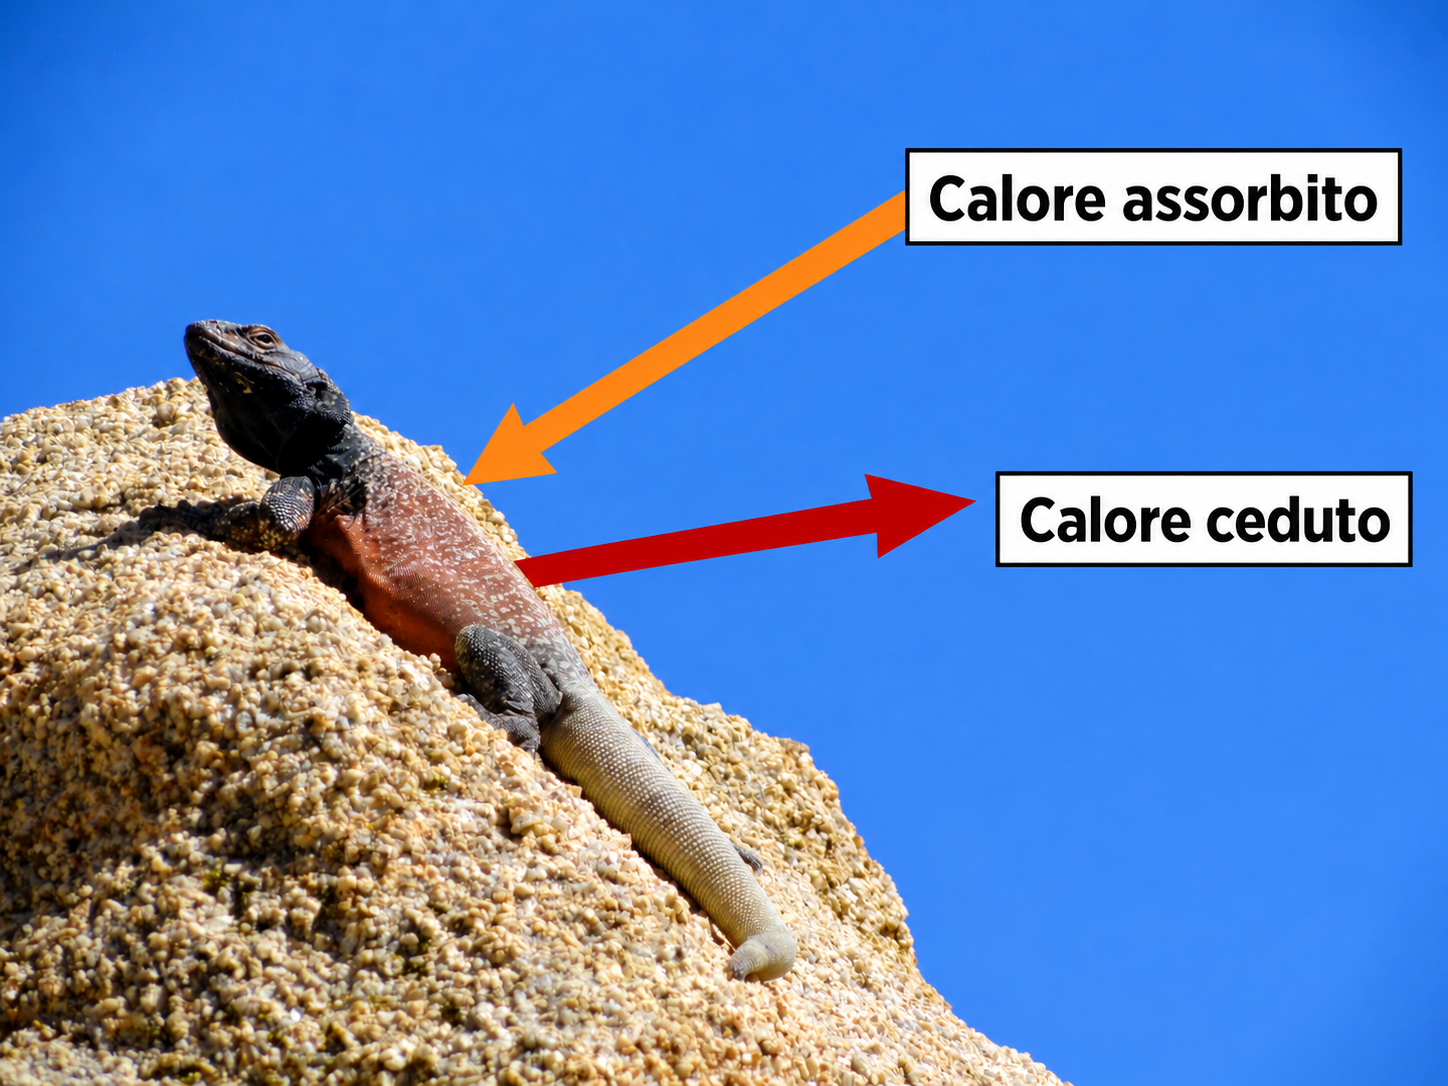
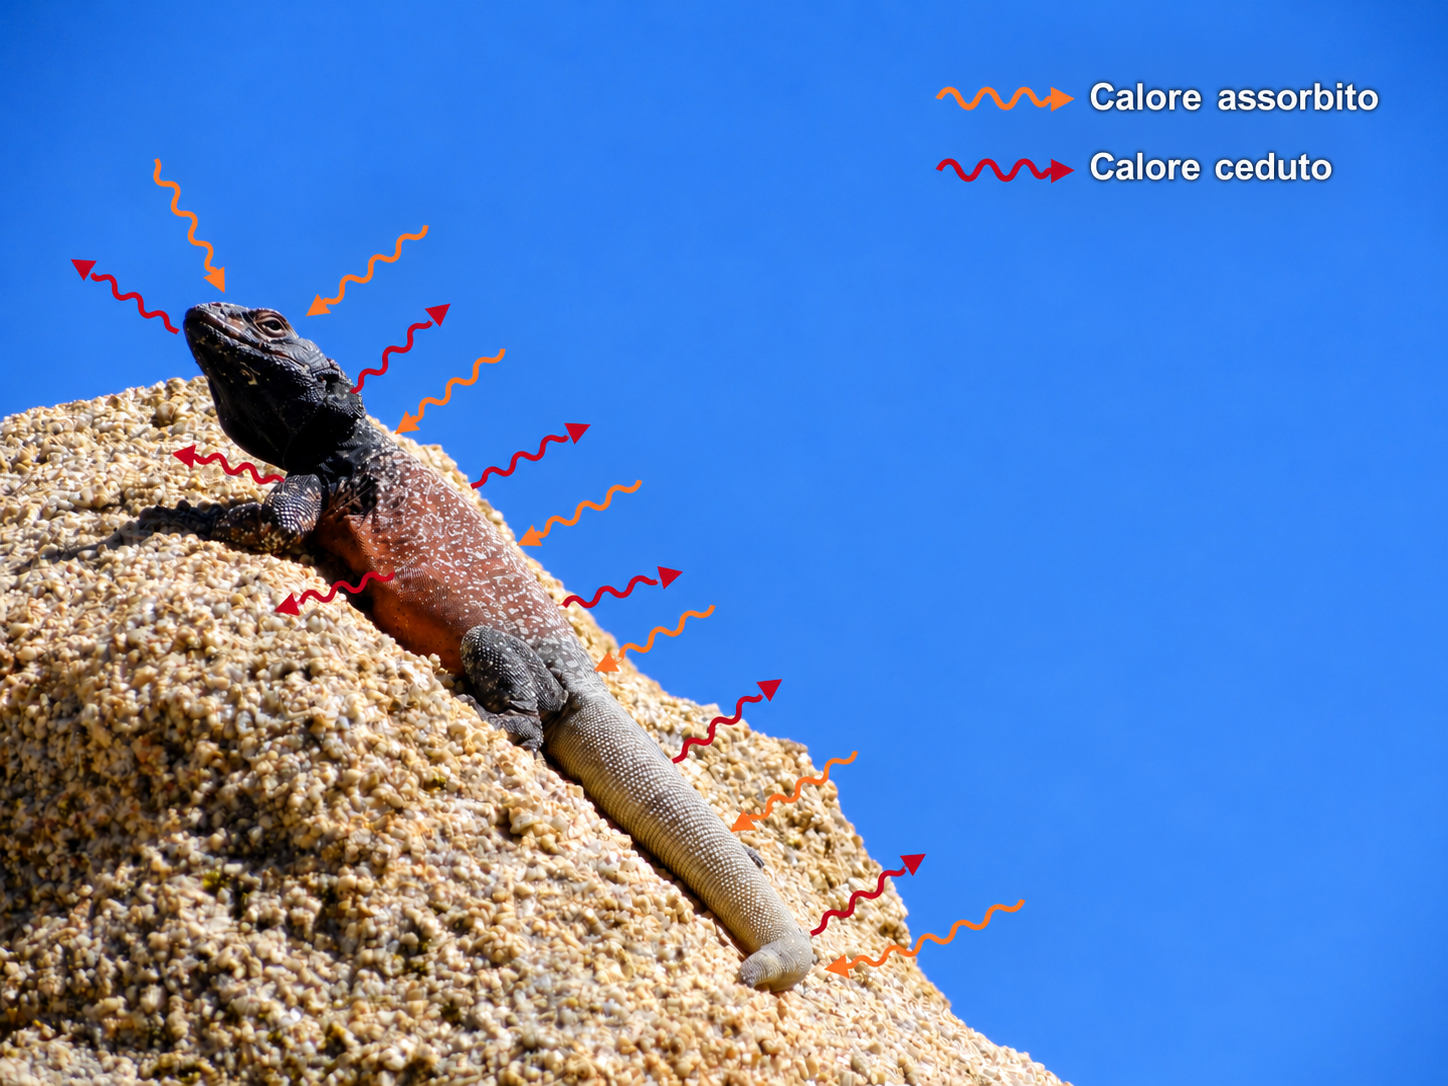
Distribuisce frecce radiative ondulate attorno al rettile

diff --git a/lavorazione/irraggiamento/bozza.md b/lavorazione/irraggiamento/bozza.md
@@ -96,13 +96,13 @@ P_{\mathrm{netta}}=P_{\mathrm{emessa}}-P_{\mathrm{assorbita}}
 
 Il risultato è positivo quando il corpo cede più energia di quanta ne assorba per irraggiamento, negativo quando ne assorbe di più. Non basta quindi guardare quanto emette: un corpo può emettere continuamente radiazione e, nello stesso tempo, acquistare energia. La parte di radiazione incidente che viene riflessa o trasmessa non entra nella potenza assorbita.
 
-Torniamo al rettile esposto al Sole. Il suo corpo assorbe parte della radiazione solare e della radiazione proveniente dall’ambiente; nello stesso tempo emette radiazione infrarossa. La freccia entrante rappresenta l’energia assorbita, mentre quella uscente rappresenta l’energia emessa. Anche mentre si riscalda, il rettile continua quindi a cedere energia per irraggiamento.
+Torniamo al rettile esposto al Sole. Il suo corpo assorbe parte della radiazione solare e della radiazione proveniente dall’ambiente; nello stesso tempo emette radiazione infrarossa. Questi scambi avvengono sulla superficie esposta del corpo, non in due soli punti: testa, dorso, fianchi e coda partecipano al bilancio. Le frecce entranti rappresentano l’energia assorbita, mentre quelle uscenti rappresentano l’energia emessa. Anche mentre si riscalda, il rettile continua quindi a cedere energia per irraggiamento.
 
-[IMMAGINE T1-bilancio — Seconda copia della foto del rettile, con frecce «Calore assorbito» e «Calore ceduto»; originale introduttivo conservato senza frecce.]
+[IMMAGINE T1-bilancio — Seconda copia della foto del rettile, con più frecce ondulate sottili entranti e uscenti, distribuite attorno alla superficie esposta di testa, dorso, fianchi e coda; legenda «Calore assorbito» e «Calore ceduto», nello stile della figura di assorbimento/riflessione/trasmissione. Originale introduttivo conservato senza frecce.]
 
-![Rettile al Sole con una freccia diretta verso il corpo per il calore assorbito e una diretta all’esterno per il calore ceduto.](risorse/rettile-bilancio.png)
+![Rettile al Sole circondato da più frecce ondulate: quelle entranti rappresentano il calore assorbito, quelle uscenti il calore ceduto dalla superficie esposta.](risorse/rettile-bilancio.png)
 
-*Le frecce rappresentano gli scambi per irraggiamento: energia assorbita dal Sole e dall’ambiente, energia emessa soprattutto nell’infrarosso. Le loro dimensioni sono illustrative e non indicano quantità misurate. La differenza tra i due contributi determina il bilancio radiativo.*
+*Le frecce distribuite attorno al rettile rappresentano gli scambi radiativi sulla superficie esposta: energia assorbita dal Sole e dall’ambiente, energia emessa soprattutto nell’infrarosso. Le loro dimensioni sono illustrative e non indicano quantità misurate. La differenza tra i due contributi complessivi determina il bilancio radiativo.*
 
 Se assorbe più energia di quanta ne emetta, il contributo radiativo tende a riscaldarlo; se ne emette di più, tende a raffreddarlo. Quando le due potenze sono uguali, il bilancio radiativo è nullo. La temperatura del rettile dipende però anche dagli scambi con aria e roccia: un bilancio radiativo nullo non basta, da solo, a garantire un bilancio termico complessivo nullo.
 

diff --git a/lavorazione/irraggiamento/stato.md b/lavorazione/irraggiamento/stato.md
@@ -152,3 +152,11 @@ Il bilancio radiativo del rettile è distinto dal bilancio termico complessivo c
 Grafico G1 realizzato con Matplotlib: SVG vettoriale e anteprima PNG, sorgente Python conservato, font Lexend e relativa licenza OFL nella cartella risorse. Modello A=1 m², emissività 1, sigma=5,67·10⁻⁸, T da 0 a 600 K. P(300 K)=459,27 W e P(600 K)=7348,32 W, rapporto 16 verificato. Assi e unità espliciti, confronto evidenziato; controllata visivamente la leggibilità e corretta la spaziatura fra formula e parametri. Il grafico resta teorico e non rappresenta misure sperimentali.
 
 Bozza aggiornata con le due visuali realizzate, collegamenti alle risorse e testi raccordati. Nessun HTML completo del capitolo o nuova simulazione realizzato. Prossimo passaggio: mostrare il risultato e raccogliere la revisione della bozza; resta da compiere la realizzazione finale con le traduzioni già richieste e le verifiche pertinenti.
+
+## Revisione delle frecce sulla superficie del rettile
+
+17 ottobre 2026, ore 13:02 (Europe/Rome). L’utente rifiuta le frecce piene della prima versione e richiede frecce a onda come nella figura di assorbimento/riflessione/trasmissione; precisa poi di volerne più di due, distribuite intorno alla lucertola per mostrare lo scambio su tutta la superficie. La versione intermedia a due frecce ondulate non viene inserita nella bozza.
+
+Sostituito `risorse/rettile-bilancio.png` con la nuova versione: più onde arancioni entranti e rosse uscenti lungo il contorno esposto di testa, dorso, fianchi e coda; legenda nel cielo con «Calore assorbito» e «Calore ceduto», senza grandi riquadri. Realizzata tramite strumento di modifica immagini a partire dall’originale, con lo schema T7 come riferimento per lo stile delle frecce. Immagine ispezionata per direzioni, distribuzione e leggibilità delle due voci; originale T1 verificato invariato tramite hash. Foto annotata: 1448 × 1086 px, 2361037 byte.
+
+Bozza e descrizione accessibile aggiornate: scambio sulla superficie esposta, non in soli due punti; frecce qualitative, bilancio basato sui contributi complessivi. Nessun nuovo numero di flusso o confronto quantitativo attribuito alla fotografia. GIF resta nella sezione effetto serra senza comandi, grafico G1 conservato. Prossimo passaggio: mostrare la revisione; la bozza completa non è ancora approvata.
